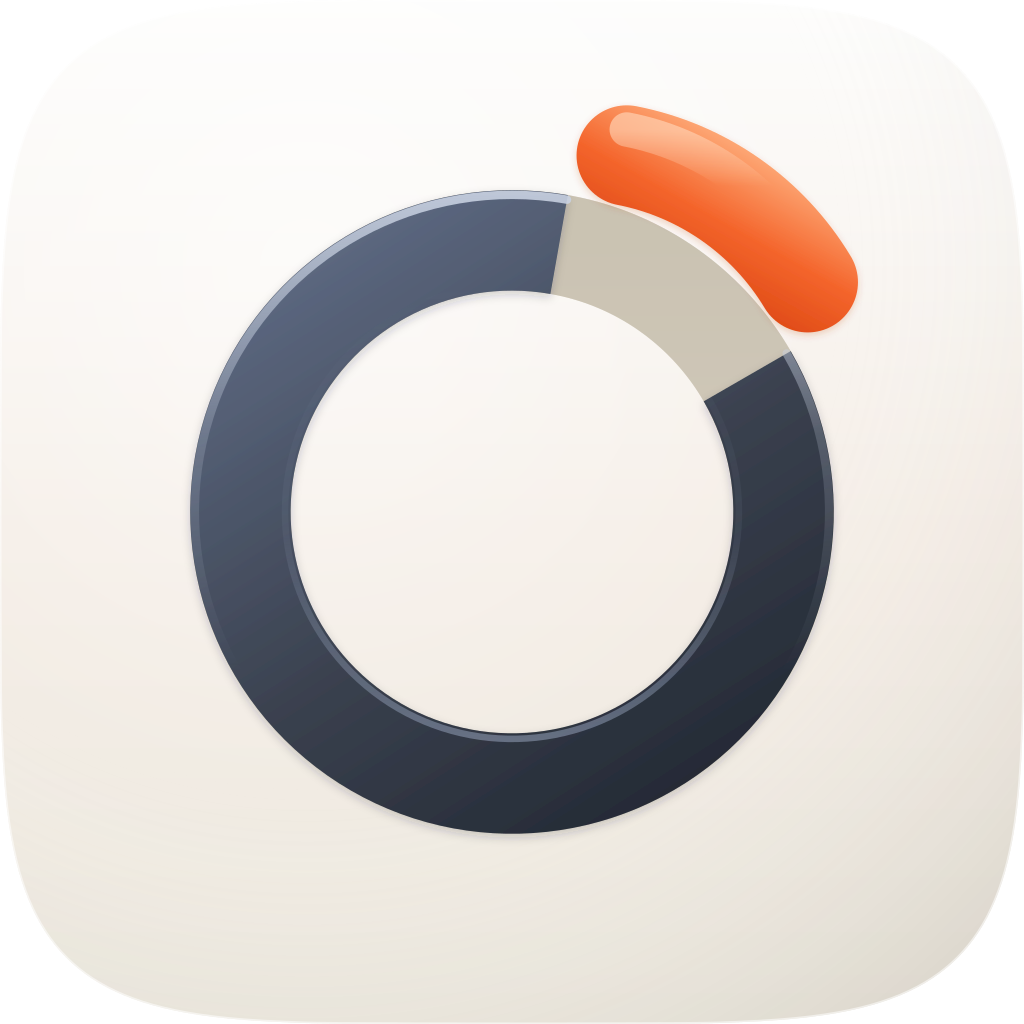
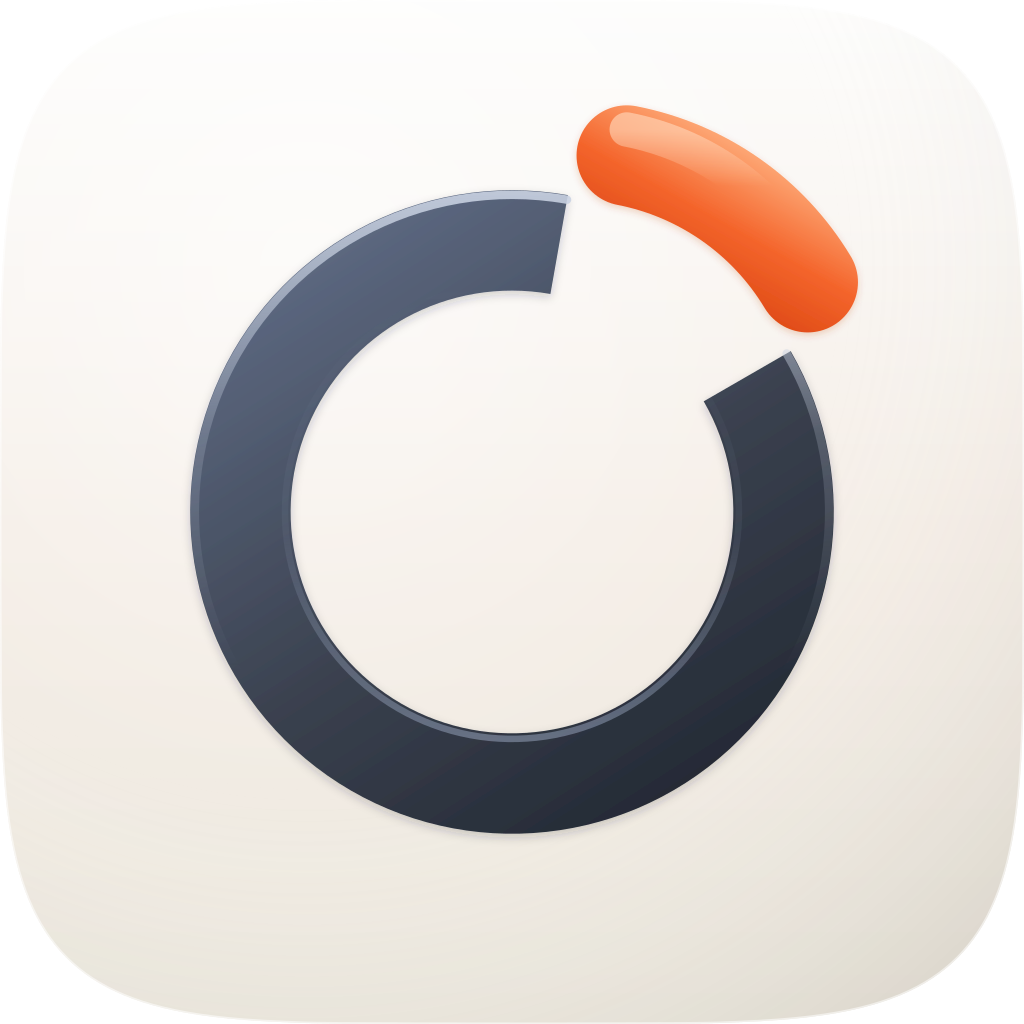
mac-doctor: remove the track; it was the defect, not the wedge
Reported three times as wrong placement of the red section. The first two fixes
moved the wedge and both were wrong, because the placement was never the fault.
Measured on the rendered pixels each time: gap centred at -54 degrees, ember at
-55, widths 48 and 50. Aligned and matched throughout.

The fault was the track. A pale band filling the gap makes the mark read as a
two-tone ring with an orange blob nearby, rather than a ring with a piece
removed and the piece sitting right there. The eye needs the gap absent, not
merely lighter, and no amount of moving the wedge could supply that.

Removing it fixes the read outright. The gauge convention costs more than it
buys here: arc length still encodes how full the disk is, and a real hole
carries the story the skill is about.

Kept from the earlier rounds: a 50 degree gap rather than 70, since 70 is 19% of
the ring empty where the reference machine was at 6% free, and a wedge matching
the gap's visible width once the round caps are accounted for.

The generalisable bit, now in icon-notes.md: when a measurement says an element
is correctly placed and it still looks wrong, stop adjusting that element.

Changed region(s): [[0.5312, 0.1875, 0.7812, 0.4062]]

diff --git a/plugins/mac-doctor/assets/audit.html b/plugins/mac-doctor/assets/audit.html
@@ -47,7 +47,7 @@
       <figure><img class="zoom" src="audit-renders/A-32.png" width="96" height="96" alt="Take A 16 pixel render magnified six times"><figcaption>16 &times;6</figcaption></figure>
     </td>
     <td class="score ship">11 / 12</td>
-    <td class="verdict">Passes all four non-negotiables. Mask discipline correct: authored against the family superellipse from create-mac-icon/assets/squircle-path.txt, no baked corners. Silhouette names the subject as a filled solid, and at 16px the ring, its gap and the freed wedge all still read as three distinct marks. Ground values sampled from the family's own icons (#FDFDFC to #EDE9DF warm porcelain) rather than from Apple's cooler #FEFFFF to #DFE3EB, because family consistency outranks the platform sample here. Round two added concentric edge catches, outer top and inner bounce, after C showed the master was flat: the first take used a displaced copy of the arc, which produced no visible edge at all. Rounds three and four fixed the wedge placement, which was reported wrong twice. Measuring rather than adjusting by eye found the cause: the ember spanned radius 289 to 389 against a track outer edge of 322, so it overlapped the hole by 33px and read as hovering over the gap rather than lifted from it. The gap was also widened beyond the truth, 70 degrees being 19% empty where the reference machine was at 6% free. Now 50 degrees of gap, a wedge of matching visible width, and a lift that clears the track. Loses one point on 11 (personality): the device is a ring gauge, which is a legible but not a surprising mark.</td>
+    <td class="verdict">Passes all four non-negotiables. Mask discipline correct: authored against the family superellipse from create-mac-icon/assets/squircle-path.txt, no baked corners. Silhouette names the subject as a filled solid, and at 16px the ring, its gap and the freed wedge all still read as three distinct marks. Ground values sampled from the family's own icons (#FDFDFC to #EDE9DF warm porcelain) rather than from Apple's cooler #FEFFFF to #DFE3EB, because family consistency outranks the platform sample here. Round two added concentric edge catches, outer top and inner bounce, after C showed the master was flat: the first take used a displaced copy of the arc, which produced no visible edge at all. The reported defect took three rounds because the first two moved the wrong element. Measured on the render, the gap centred at -54 degrees and the ember at -55, widths 48 and 50: correctly placed throughout. The fault was the track, whose pale band made the gap read as a filled lighter segment rather than a hole, so the mark said two-tone ring plus floating blob. Removing it fixed the read outright; arc length still encodes how full the disk is. Loses one point on 11 (personality): the device is a ring gauge, which is a legible but not a surprising mark.</td>
   </tr>
   <tr>
     <td class="take fail">C · icon-engineC-raster.png<small>GPT Image 2, corpus-referenced raster — material target, not shipped</small></td>

diff --git a/plugins/mac-doctor/assets/build_icon.py b/plugins/mac-doctor/assets/build_icon.py
@@ -61,7 +61,6 @@ SCALE = 0.93            # composition scale, keeps the lifted wedge off the edge
 
 # ---- material ---------------------------------------------------------------
 GROUND_TOP, GROUND_MID, GROUND_BOT = "#FDFDFC", "#F5EEE7", "#EDE9DF"
-TRACK_HI, TRACK_LO = "#E4DED1", "#D3CCBC"      # recessed groove
 # Graphite gel, value ramp. Nudged bluer than the first take: the raster's body
 # sampled (60,81,110) against the master's (75,85,99), and the cooler read is
 # part of why its material looked richer.
@@ -109,12 +108,6 @@ def build():
     <stop offset="0.55" stop-color="#FFFFFF" stop-opacity="0"/>
     <stop offset="1"    stop-color="#8C8577" stop-opacity="0.16"/>
   </radialGradient>
-
-  <!-- PLANE 2: the track. Recessed, so it reads as a groove the ring sits in. -->
-  <linearGradient id="track" x1="0" y1="0" x2="0" y2="1">
-    <stop offset="0" stop-color="{TRACK_LO}"/>
-    <stop offset="1" stop-color="{TRACK_HI}"/>
-  </linearGradient>
 
   <!-- PLANE 3: the gel ring. Value ramp at constant hue, per the Safari sample. -->
   <linearGradient id="ring" x1="0.18" y1="0" x2="0.82" y2="1">
@@ -174,12 +167,13 @@ def build():
   <path d="{squircle}" fill="none" stroke="#FFFFFF" stroke-opacity="0.55" stroke-width="3"/>
 
   <g transform="translate({CX},{CY}) scale({SCALE}) translate({-CX},{-CY})">
-    <!-- recessed track -->
-    <circle cx="{CX}" cy="{CY}" r="{R}" fill="none"
-            stroke="url(#track)" stroke-width="{W}"/>
-    <circle cx="{CX}" cy="{CY}" r="{R}" fill="none"
-            stroke="#B9B1A0" stroke-opacity="0.35" stroke-width="{W}"
-            style="filter:none"/>
+    <!-- No track. This was the defect reported twice as "wrong placement of
+         the red section", and the placement was correct both times: measured on
+         the render, the gap centred at -54 degrees and the ember at -55, widths
+         48 and 50. What was wrong was that a visible track makes the gap read as
+         a filled lighter segment, so the mark said "two-tone ring with an orange
+         blob nearby" instead of "ring with a piece removed, and there it is".
+         The gauge convention costs more than it buys here. -->
 
     <!-- the filled capacity, 290 degrees of graphite gel -->
     <g filter="url(#ringShadow)">

diff --git a/plugins/mac-doctor/assets/icon-notes.md b/plugins/mac-doctor/assets/icon-notes.md
@@ -34,29 +34,31 @@ a local ground of `(233,234,235)`: roughly 12% darker and tinted toward the
 object's own hue, not a neutral grey. So the graphite ring casts cool
 (`#2A2F38`) and the ember wedge casts warm (`#C0430F`).
 
-## Wedge placement, and why the first two attempts failed
+## The defect was the track, not the wedge
 
-Reported twice as wrong placement, and both times it was. The measurement that
-finally explained it: the ember spanned radius 289 to 389 while the track's
-outer edge sits at 322, so the wedge was overlapping the gap by 33px. It was
-sitting partly ON the hole rather than clear of it, which is why it read as
-hovering rather than lifted out.
+Reported three times as wrong placement of the red section. The first two fixes
+moved the wedge, and both were wrong, because the placement was never the fault.
+Measured on the rendered pixels: the gap centred at -54 degrees and the ember at
+-55, widths 48 and 50 degrees. Aligned and matched.
 
-Two other things were wrong with the original 70 degree gap. It is 19% of the
-ring empty, where the machine this was built for was at 6% free, so it was not
-even truthful. And a hole that wide cannot be matched by a wedge of the same
-visible width without the wedge dominating the mark.
+What actually broke the read was the **track**. A visible pale band filling the
+gap makes the mark say "two-tone ring with an orange blob nearby" rather than
+"ring with a piece removed, and there it is". The eye needs the gap to be
+absent, not merely lighter.
 
-| gap / wedge / lift | what it does |
-|---|---|
-| 70 / 34 / 104 | wedge half the width of the hole, far out; reads as an unrelated bean |
-| 70 / 48 / 88 | overlaps the track by 33px; hovers over the gap |
-| **50 / 48 / 118** | **shipped.** Same visible width as the gap, sits just clear of it |
+Removing the track fixed it outright. The gauge convention costs more than it
+buys here: the arc length still encodes how full the disk is, and a real hole
+carries the story the skill is actually about.
 
-Worth leaving for whoever edits these constants: round caps extend the arc by
-(W/2)/R radians at each end, 21.2 degrees in total here, so the authored 48
-degrees renders as about 69. The authored number is not the number you see, and
-that is most of why the first attempt was misjudged.
+Two things are worth keeping from the earlier rounds, because the constants
+still reflect them. The gap is 50 degrees rather than 70, since 70 is 19% of the
+ring empty where the reference machine was at 6% free. And the wedge matches the
+gap's visible width, which needs allowing for the round caps: they extend the
+arc by (W/2)/R radians at each end, 21.2 degrees in total, so the authored 48
+degrees renders as about 69.
+
+The lesson for the next commission: when a measurement says an element is
+correctly placed and it still looks wrong, stop adjusting that element.
 
 ## What the raster take changed
 
